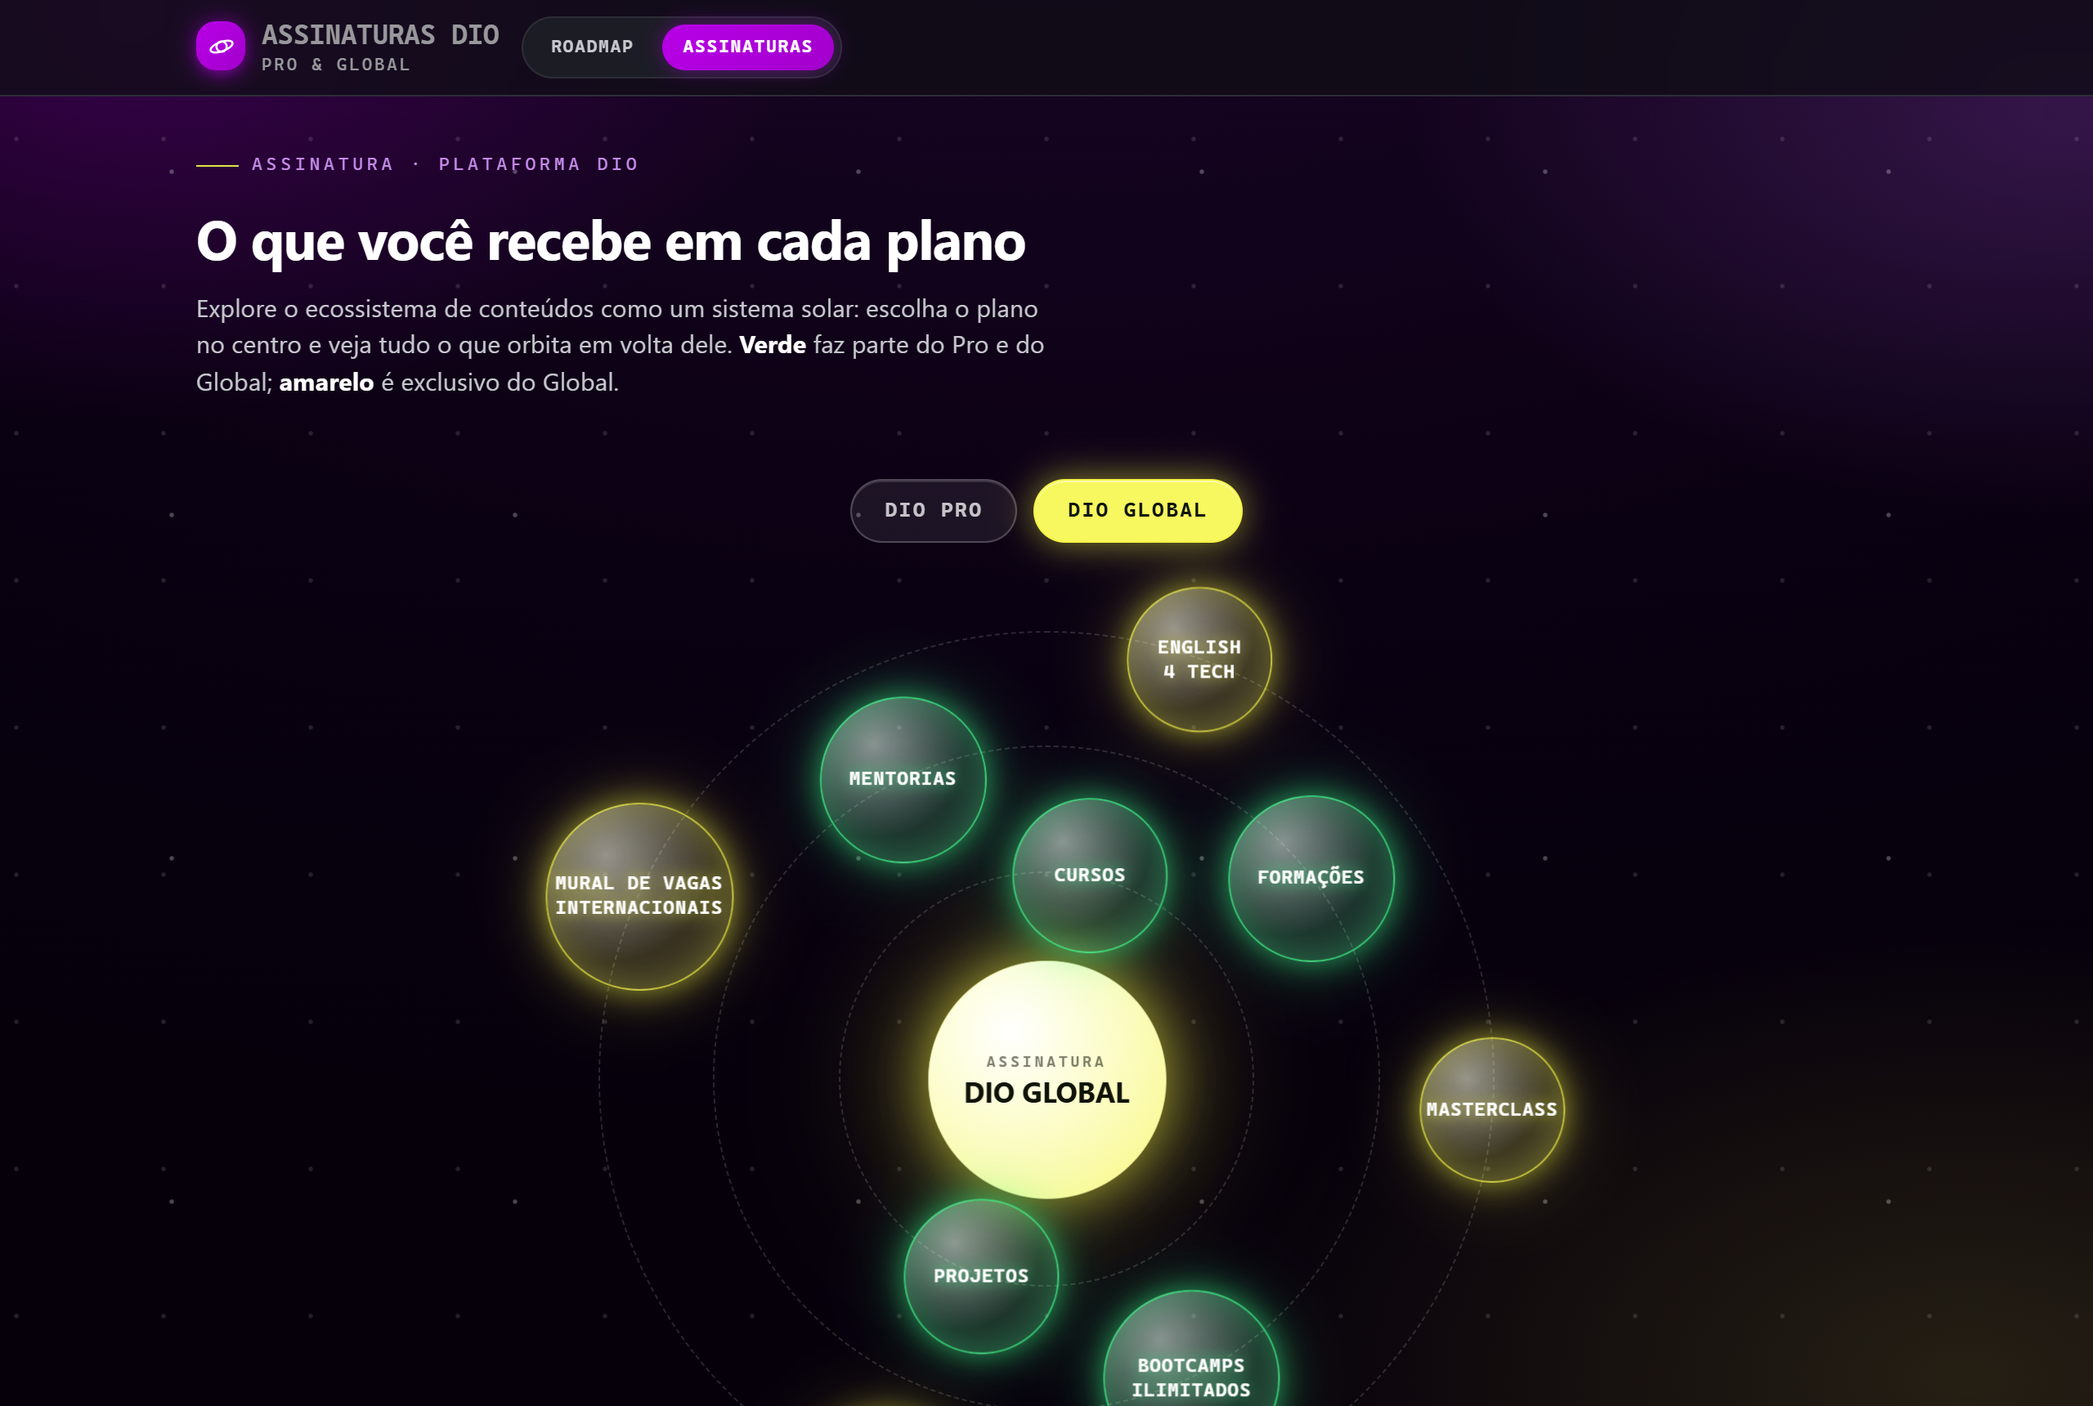
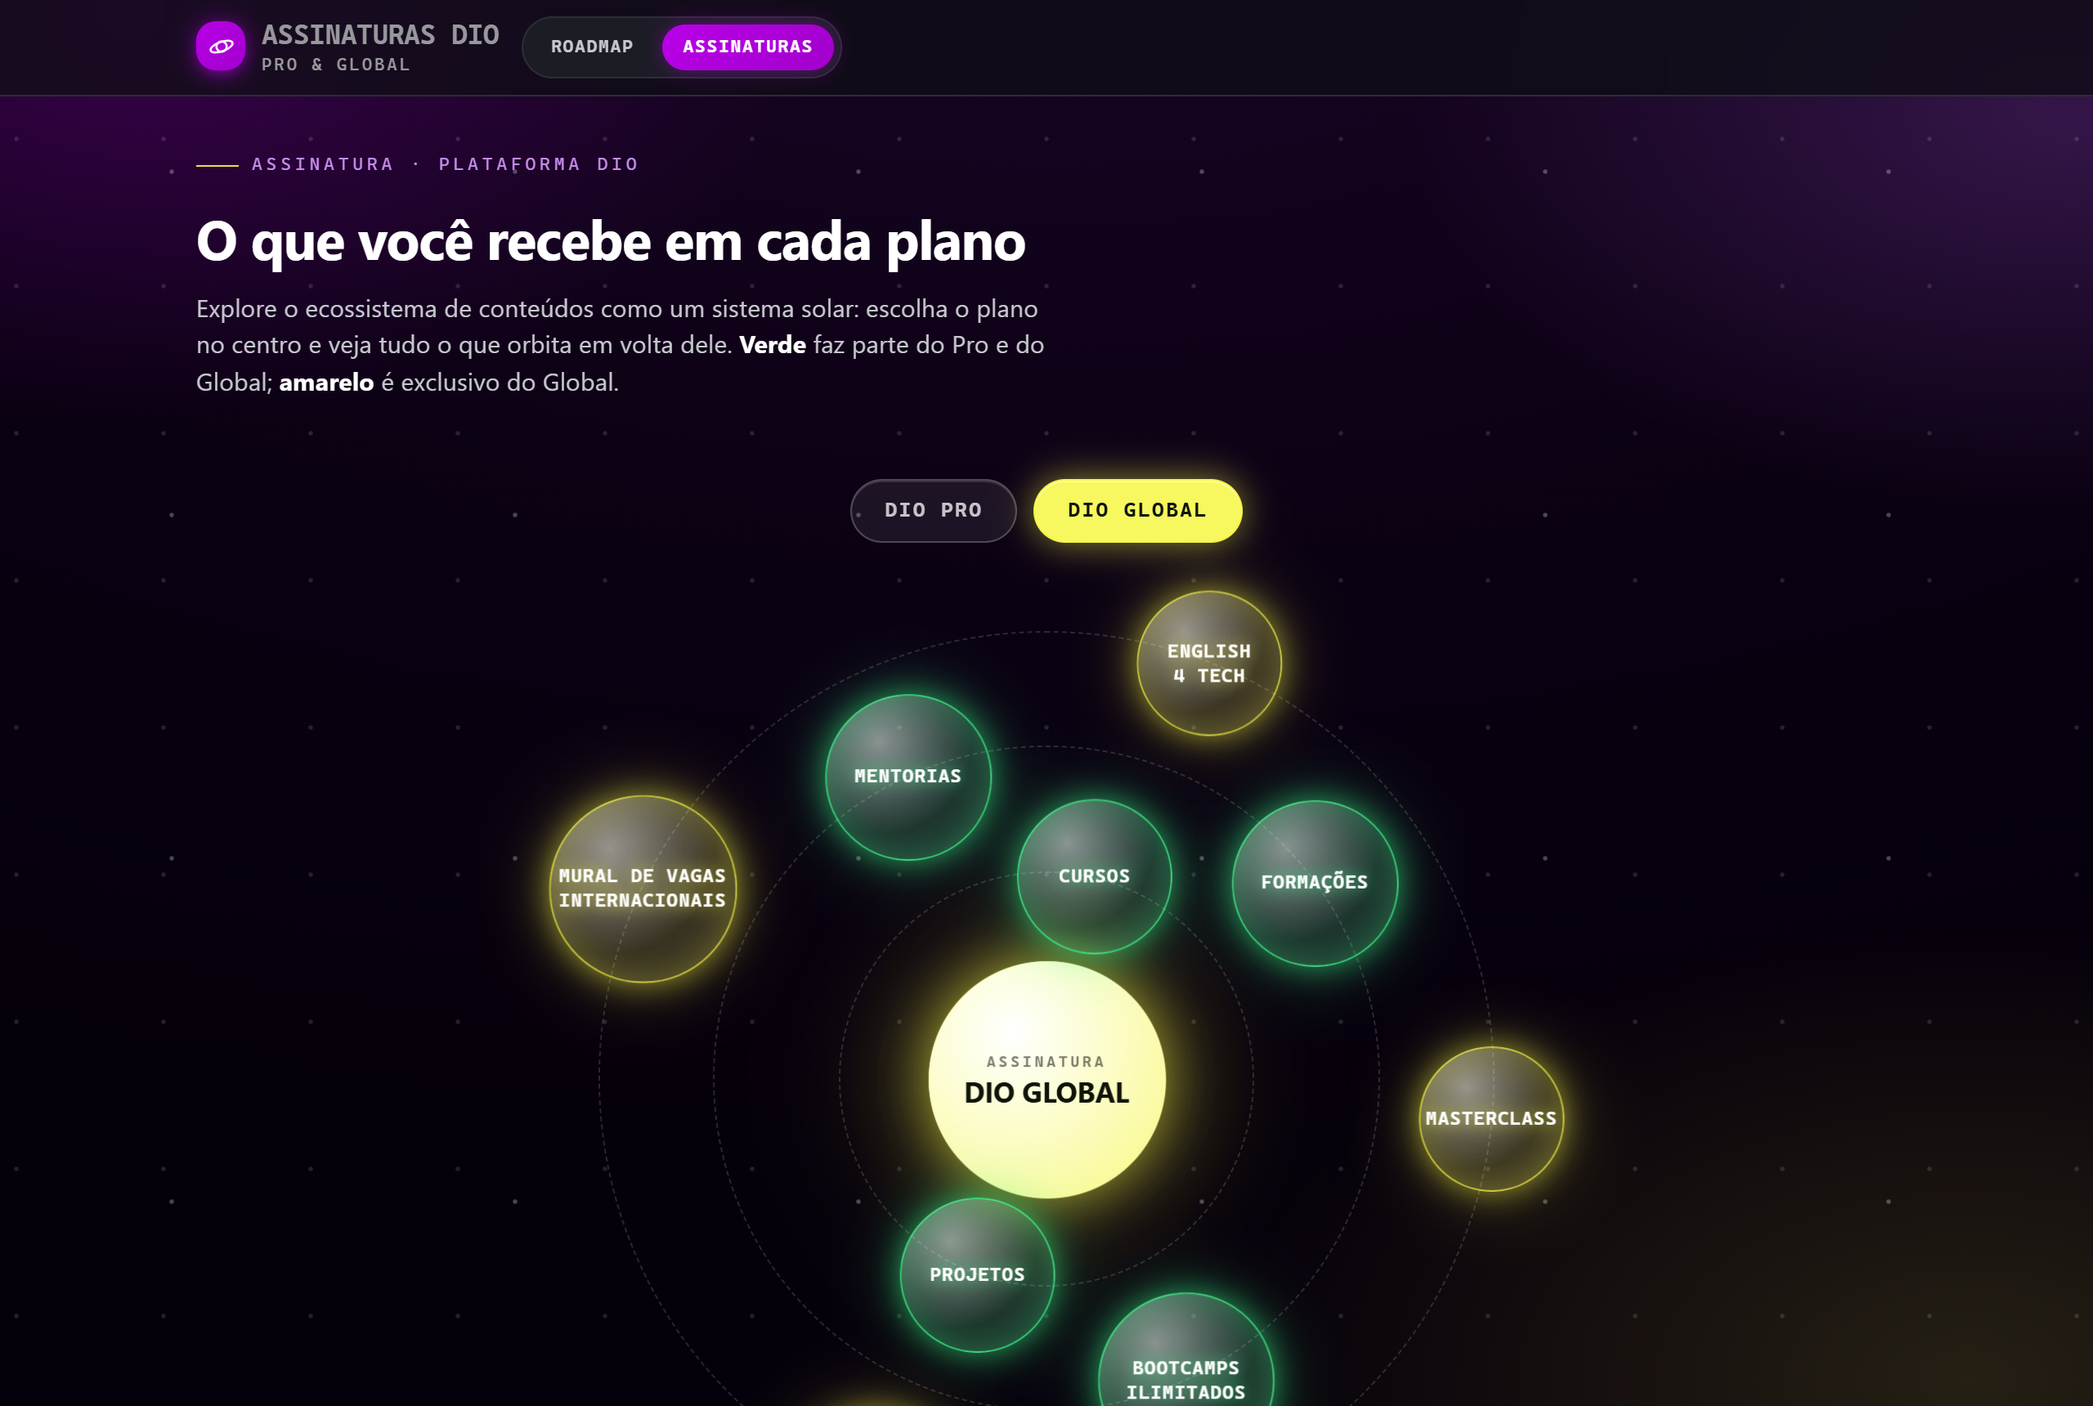
Hero: visual One UI escuro + mapa 2D visto de cima + estrelas
- Hero volta ao roxo escuro do projeto (One UI: superfície suave, cantos generosos)
- Mapa dinâmico agora é 2D visto de cima (world map SMW): caminhos ortogonais
  em zigue-zague sobre ilhas sutis; fases alternam magenta/dourado
- Herói e castelo em traço branco com bandeiras douradas
- Partículas: estrelas cintilantes (branco/lavanda/dourado) no lugar das bolhas
- Atualiza prints do README

Claude-Session: https://claude.ai/code/session_01NDBp3KGpNdm6GVd3E32CQM

diff --git a/index.html b/index.html
@@ -77,21 +77,16 @@
   .icon-btn{padding:7px;width:36px;justify-content:center}
 
   /* ---------- hero ---------- */
-  /* hero Frutiger Aero: céu aqua glossy, escuro no canto do texto p/ legibilidade */
+  /* hero One UI: superfície escura, cantos generosos, brilho suave (paleta do projeto) */
   .hero{position:relative;width:100%;margin:0;padding:64px 0 58px;border-radius:0 0 34px 34px;overflow:hidden;
-    background:
-      radial-gradient(90% 120% at 8% 100%, rgba(4,48,68,.55), transparent 60%),
-      linear-gradient(115deg,#075E86 0%,#1290C4 32%,#31B0E8 60%,#83DBF9 100%);
-    color:#fff;
-    box-shadow:0 30px 70px -38px rgba(7,64,96,.9), inset 0 -1px 0 rgba(255,255,255,.35)}
+    background:linear-gradient(155deg,#0C0118 0%,#23002F 55%,#320043 100%);color:#fff;
+    box-shadow:0 30px 70px -38px rgba(48,0,64,.9)}
   .hero-in{position:relative;z-index:2;max-width:1080px;margin:0 auto;padding:0 24px}
   .hero-in>*{position:relative}
-  .hero::before{content:"";position:absolute;right:-110px;top:-140px;width:460px;height:460px;border-radius:50%;
-    background:radial-gradient(circle,rgba(255,255,255,.55),transparent 60%);pointer-events:none;z-index:1}
-  .hero::after{content:"";position:absolute;inset:0;z-index:1;pointer-events:none;
-    background:linear-gradient(115deg,transparent 30%,rgba(255,255,255,.20) 42%,rgba(255,255,255,.04) 52%,transparent 60%)}
+  .hero::before{content:"";position:absolute;right:-130px;top:-150px;width:460px;height:460px;border-radius:50%;
+    background:radial-gradient(circle,rgba(184,0,231,.5),transparent 62%);pointer-events:none;z-index:1}
   .hero-bubbles{position:absolute;inset:0;width:100%;height:100%;z-index:0;pointer-events:none}
-  .hero-deco{position:absolute;right:8px;top:22px;bottom:auto;width:min(620px,50%);height:auto;opacity:.95;pointer-events:none;color:rgba(7,58,84,.55);z-index:1}
+  .hero-deco{position:absolute;right:8px;top:22px;bottom:auto;width:min(620px,50%);height:auto;opacity:.9;pointer-events:none;color:rgba(255,255,255,.42);z-index:1}
   @media (max-width:820px){.hero-deco{display:none}}
   .eyebrow{font-family:var(--mono);font-size:.72rem;letter-spacing:.2em;text-transform:uppercase;
     color:var(--gold);display:flex;align-items:center;gap:8px;margin-bottom:16px}
@@ -516,22 +511,9 @@
   }
 
   /* ============================================================
-     AERO HERO — overrides Frutiger Aero (só no hero) + mapa vivo
+     MAPA VIVO — animação do roadmap dinâmico do hero
      ============================================================ */
-  .hero h1{text-shadow:0 1px 0 rgba(255,255,255,.28),0 2px 14px rgba(3,48,66,.6),0 0 34px rgba(0,229,255,.35)}
-  .hero h1 .u{background:linear-gradient(100deg,#FFFFFF,#BDF0FF 55%,#E9FBFF);-webkit-background-clip:text;background-clip:text;
-    color:transparent;filter:drop-shadow(0 2px 6px rgba(4,60,84,.65))}
-  .hero .eyebrow{color:#EAFBFF;text-shadow:0 0 14px rgba(255,255,255,.65)}
-  .hero .eyebrow::before{background:#EAFBFF}
-  .hero .lede{color:rgba(255,255,255,.95);text-shadow:0 1px 8px rgba(6,58,84,.5)}
-  .hero .step-chip{color:#053A50;font-weight:600;border:1px solid rgba(255,255,255,.6);
-    background:linear-gradient(180deg,rgba(255,255,255,.45),rgba(255,255,255,.16) 48%,rgba(255,255,255,.3));
-    -webkit-backdrop-filter:blur(6px);backdrop-filter:blur(6px);
-    box-shadow:inset 0 1px 0 rgba(255,255,255,.8),inset 0 -6px 12px -8px rgba(6,90,120,.35),0 8px 18px -12px rgba(4,60,90,.55)}
-  .hero .step-chip .n{background:linear-gradient(180deg,#8FE9FF,#18A5DE);color:#04384E;
-    box-shadow:inset 0 1px 0 rgba(255,255,255,.85),0 0 12px rgba(120,220,255,.7)}
-
-  /* mapa vivo: nós/pontinhos aparecem com pop suave */
+  /* nós/pontinhos aparecem com pop suave */
   .mnode,.mdot{opacity:0;transform:scale(.2);transform-box:fill-box;transform-origin:center;
     transition:transform .38s cubic-bezier(.34,1.56,.64,1),opacity .22s ease}
   .mdot{transition-duration:.3s,.18s}
@@ -577,22 +559,21 @@
     <canvas class="hero-bubbles" id="heroBubbles" aria-hidden="true"></canvas>
     <svg class="hero-deco" viewBox="0 0 640 300" fill="none" aria-hidden="true">
       <defs>
-        <radialGradient id="orbG" cx=".35" cy=".3" r=".8">
-          <stop offset="0" stop-color="#fff"/><stop offset=".55" stop-color="#CFF3FF"/><stop offset="1" stop-color="#45B7E8"/>
-        </radialGradient>
-        <linearGradient id="hillG" x1="0" y1="0" x2="0" y2="1">
-          <stop offset="0" stop-color="#B7EC7A"/><stop offset="1" stop-color="#3E9E45"/>
-        </linearGradient>
-        <!-- castelo com origem no fim da trilha (deslocado de 560,106) -->
-        <g id="castleTpl" stroke="#0A4B66" stroke-width="2.6" stroke-linejoin="round" stroke-linecap="round">
-          <path d="M-8 0 V-34 h7 v-7 h7 v7 h7 v-7 h7 v7 h7 v-7 h7 v7 h7 V0 Z" fill="rgba(255,255,255,.6)"/>
-          <path d="M14 0 V-14 a7 7 0 0 1 14 0 v14" fill="rgba(255,255,255,.75)"/>
-          <path d="M16 -41 v-18 h15 l-4.5 5 4.5 5 h-15" fill="#FFD34D" stroke="none"/>
+        <!-- castelo com origem no fim da trilha -->
+        <g id="castleTpl" stroke="rgba(255,255,255,.85)" stroke-width="2.6" stroke-linejoin="round" stroke-linecap="round">
+          <path d="M-8 0 V-34 h7 v-7 h7 v7 h7 v-7 h7 v7 h7 v-7 h7 v7 h7 V0 Z" fill="rgba(255,255,255,.07)"/>
+          <path d="M14 0 V-14 a7 7 0 0 1 14 0 v14" fill="rgba(255,255,255,.12)"/>
+          <path d="M16 -41 v-18 h15 l-4.5 5 4.5 5 h-15" fill="#E5E145" stroke="none"/>
         </g>
       </defs>
-      <g id="mapTerrain">
-        <path d="M0 300 V232 C 70 212 130 234 196 224 C 268 213 322 240 396 228 C 462 217 520 238 582 228 C 606 224 624 230 640 226 V300 Z" fill="#fff" opacity=".18"/>
-        <path d="M0 300 V260 C 84 248 156 268 236 256 C 322 243 402 270 484 258 C 554 248 602 264 640 256 V300 Z" fill="url(#hillG)" opacity=".5"/>
+      <!-- ilhas vistas de cima (world map 2D) -->
+      <g id="mapTerrain" stroke-width="2">
+        <path d="M35 205 C 20 160 70 118 150 122 C 215 125 240 95 320 92 C 395 89 420 130 400 168 C 385 197 320 200 275 218 C 220 240 260 268 200 278 C 130 288 55 255 35 205 Z"
+          fill="rgba(255,255,255,.045)" stroke="rgba(255,255,255,.10)"/>
+        <path d="M430 210 C 425 178 470 160 520 168 C 570 176 600 200 590 232 C 580 262 520 272 478 258 C 445 247 434 233 430 210 Z"
+          fill="rgba(255,255,255,.045)" stroke="rgba(255,255,255,.10)"/>
+        <path d="M470 58 C 468 40 495 30 535 34 C 575 38 600 52 595 74 C 590 95 545 102 510 94 C 484 88 472 76 470 58 Z"
+          fill="rgba(255,255,255,.045)" stroke="rgba(255,255,255,.10)"/>
       </g>
       <g id="mapTrail"></g>
     </svg>
@@ -1241,23 +1222,40 @@ backLink.addEventListener('click',function(){
   function stopMap(){ timers.forEach(clearTimeout); timers=[]; }
 
   function clamp(v,a,b){ return v<a?a:(v>b?b:v); }
+  /* meandro ortogonal 2D (visto de cima, estilo world map do SMW):
+     alterna movimentos horizontais/verticais rumo ao destino, com desvios */
   function genWaypoints(){
-    var N=3+Math.floor(Math.random()*3);
-    var sx=60,sy=255,ex=545+Math.random()*25,ey=98+Math.random()*14;
-    var pts=[{x:sx,y:sy}],i;
-    for(i=1;i<=N;i++){
-      var t=i/(N+1);
-      var x=sx+t*(ex-sx)+(Math.random()*44-22);
-      var base=sy+t*(ey-sy);
-      var dir=(i%2?-1:1);
-      pts.push({x:x,y:clamp(base+dir*(18+Math.random()*20),70,265)});
+    var sx=55+Math.random()*25, sy=225+Math.random()*35;
+    var ex=540+Math.random()*35, ey=62+Math.random()*30;
+    var pts=[{x:sx,y:sy}], x=sx, y=sy, horiz=true, guard=0;
+    while(guard++<10){
+      var remX=ex-x, remY=ey-y;
+      if(Math.abs(remX)<150&&Math.abs(remY)<130) break;
+      if(horiz){
+        var st=remX*(.32+Math.random()*.34);
+        if(Math.abs(st)<60) st=60*(remX<0?-1:1);
+        x=clamp(x+st,40,600);
+      } else {
+        var sv=remY*(.38+Math.random()*.38);
+        if(Math.abs(sv)<45) sv=45*(remY<0?-1:1);
+        if(Math.random()<.3) sv=-sv*.7; /* desvio contrário ocasional (zigue-zague vivo) */
+        y=clamp(y+sv,55,270);
+      }
+      pts.push({x:x,y:y});
+      horiz=!horiz;
     }
+    if(Math.abs(ex-x)>2) pts.push({x:ex,y:y});
     pts.push({x:ex,y:ey});
-    for(i=1;i<pts.length;i++) if(pts[i].x-pts[i-1].x<48) pts[i].x=pts[i-1].x+48;
-    return pts;
+    /* remove nós duplicados/segmentos nulos */
+    var out=[pts[0]];
+    for(var i=1;i<pts.length;i++){
+      var p=pts[i],q=out[out.length-1];
+      if(Math.abs(p.x-q.x)>2||Math.abs(p.y-q.y)>2) out.push(p);
+    }
+    return out;
   }
-  function segD(a,b){ var mx=(a.x+b.x)/2;
-    return 'M'+a.x+' '+a.y+' C '+mx+' '+a.y+', '+mx+' '+b.y+', '+b.x+' '+b.y; }
+  /* segmentos retos (mapa 2D visto de cima) */
+  function segD(a,b){ return 'M'+a.x+' '+a.y+' L '+b.x+' '+b.y; }
   function el(name,attrs,cls){
     var e=document.createElementNS(SVGNS,name);
     for(var k in attrs) e.setAttribute(k,attrs[k]);
@@ -1277,35 +1275,39 @@ backLink.addEventListener('click',function(){
     /* herói no início — posição no grupo externo (atributo), pop no interno
        (a classe .mnode usa transform via CSS, que sobrepõe o atributo transform) */
     var heroPos=el('g',{transform:'translate('+pts[0].x+' '+pts[0].y+')'});
-    var hero=el('g',{stroke:'#06465F','stroke-width':'2.4','stroke-linecap':'round','stroke-linejoin':'round',fill:'none'},'mnode');
-    hero.appendChild(el('circle',{cx:0,cy:-14,r:16,fill:'rgba(255,255,255,.4)',stroke:'none'}));
-    hero.appendChild(el('circle',{cx:0,cy:-24,r:5.5,fill:'rgba(255,255,255,.85)'}));
+    var hero=el('g',{stroke:'#fff','stroke-width':'2.4','stroke-linecap':'round','stroke-linejoin':'round',fill:'none'},'mnode');
+    hero.appendChild(el('circle',{cx:0,cy:-14,r:16,fill:'rgba(255,255,255,.1)',stroke:'none'}));
+    hero.appendChild(el('circle',{cx:0,cy:-24,r:5.5,fill:'rgba(255,255,255,.92)'}));
     hero.appendChild(el('path',{d:'M0 -18 v11 M0 -7 l-6 9 M0 -7 l6 9 M-7 -13 h14'}));
-    hero.appendChild(el('path',{d:'M7 -13 v-14 h9 l-3 3.5 3 3.5 h-9',fill:'#FFD34D',stroke:'none'}));
+    hero.appendChild(el('path',{d:'M7 -13 v-14 h9 l-3 3.5 3 3.5 h-9',fill:'#E5E145',stroke:'none'}));
     heroPos.appendChild(hero); layer.appendChild(heroPos); built.hero=hero;
 
     var i,j;
     for(i=0;i<pts.length-1;i++){
       var dots=sampleDots(segD(pts[i],pts[i+1])),dotEls=[];
       for(j=0;j<dots.length;j++){
-        var dot=el('circle',{cx:dots[j].x,cy:dots[j].y,r:2.2,fill:'rgba(7,58,84,.65)'},'mdot');
+        var dot=el('circle',{cx:dots[j].x,cy:dots[j].y,r:2.1,fill:'rgba(255,255,255,.55)'},'mdot');
         layer.appendChild(dot); dotEls.push(dot);
       }
       built.segDots.push(dotEls);
       if(i<pts.length-2){
+        /* fases alternando magenta/dourado, como o mapa original */
+        var mag=(built.orbs.length%2===0);
         var orb=el('g',{},'mnode');
-        orb.appendChild(el('circle',{cx:pts[i+1].x,cy:pts[i+1].y,r:11,fill:'url(#orbG)',stroke:'rgba(255,255,255,.85)','stroke-width':'1.4'}));
-        orb.appendChild(el('circle',{cx:pts[i+1].x-3.4,cy:pts[i+1].y-3.8,r:3.2,fill:'#fff',opacity:'.9'}));
+        orb.appendChild(el('circle',{cx:pts[i+1].x,cy:pts[i+1].y,r:10.5,fill:mag?'#B800E7':'#E5E145',
+          stroke:'rgba(255,255,255,.35)','stroke-width':'1.6'}));
+        orb.appendChild(el('circle',{cx:pts[i+1].x,cy:pts[i+1].y,r:4,
+          fill:mag?'#fff':'#1A0322',opacity:mag?'.85':'.55'}));
         layer.appendChild(orb); built.orbs.push(orb);
       }
     }
-    /* moedas: 2-3 acima de pontos aleatórios do meio */
+    /* moedas: 2-3 perto de pontos aleatórios do meio */
     var coinN=2+Math.floor(Math.random()*2);
     for(i=0;i<coinN;i++){
       var wp=pts[1+Math.floor(Math.random()*(pts.length-2))];
       var cx=wp.x+(Math.random()*46-23),cy=wp.y-(24+Math.random()*20);
       var coin=el('g',{},'mnode');
-      coin.appendChild(el('circle',{cx:cx,cy:cy,r:3.6,fill:'#FFD34D'}));
+      coin.appendChild(el('circle',{cx:cx,cy:cy,r:3.6,fill:'#E5E145'}));
       coin.appendChild(el('circle',{cx:cx-1.1,cy:cy-1.2,r:1,fill:'#fff',opacity:'.85'}));
       layer.appendChild(coin); built.coins.push(coin);
     }
@@ -1318,7 +1320,7 @@ backLink.addEventListener('click',function(){
     castlePos.appendChild(castle); layer.appendChild(castlePos); built.castle=castle;
     for(i=0;i<6;i++){
       var ang=Math.PI*2*i/6, dist=26+Math.random()*14;
-      var sp=el('circle',{cx:end.x,cy:end.y-22,r:2.6,fill:'#FFD34D'},'spark');
+      var sp=el('circle',{cx:end.x,cy:end.y-22,r:2.6,fill:'#E5E145'},'spark');
       sp.style.setProperty('--dx',Math.cos(ang)*dist+'px');
       sp.style.setProperty('--dy',(Math.sin(ang)*dist-8)+'px');
       layer.appendChild(sp); built.sparks.push(sp);
@@ -1377,51 +1379,52 @@ backLink.addEventListener('click',function(){
   start();
 })();
 
-/* ---------- hero: bolhas Frutiger Aero (canvas) ---------- */
+/* ---------- hero: estrelas cintilantes (canvas) ---------- */
 (function(){
   var canvas=document.getElementById('heroBubbles');
   var hero=document.querySelector('.hero');
   if(!canvas||!hero) return;
   if(window.matchMedia&&window.matchMedia('(prefers-reduced-motion:reduce)').matches) return;
   var ctx=canvas.getContext('2d');
-  var sprite=(function(){
-    var s=64,c=document.createElement('canvas');c.width=c.height=s;
-    var x=c.getContext('2d'),cx=32,cy=32,r=29;
-    var g=x.createRadialGradient(cx-10,cy-13,3,cx,cy,r);
-    g.addColorStop(0,'rgba(255,255,255,.5)');g.addColorStop(.5,'rgba(255,255,255,.06)');
-    g.addColorStop(.92,'rgba(255,255,255,.12)');g.addColorStop(1,'rgba(255,255,255,.5)');
-    x.fillStyle=g;x.beginPath();x.arc(cx,cy,r,0,7);x.fill();
-    x.strokeStyle='rgba(255,255,255,.75)';x.lineWidth=1.5;x.stroke();
-    x.fillStyle='rgba(255,255,255,.9)';
-    x.beginPath();x.ellipse(cx-12,cy-14,6,3.6,-.6,0,7);x.fill();
-    return c;
-  })();
-  var W=0,H=0,bubbles=[],raf=0,last=0,resizeT=0;
+  var W=0,H=0,stars=[],raf=0,last=0,resizeT=0;
   function rand(a,b){ return a+Math.random()*(b-a); }
-  function spawn(anyY){
-    return {x:rand(0,W),y:anyY?rand(0,H):H+rand(6,40),r:rand(4,20),
-      v:rand(10,26),amp:rand(4,12),f:rand(.4,1.1),ph:rand(0,6.28),a:rand(.14,.4)};
+  function starColor(){
+    var r=Math.random();
+    return r<.1?'229,225,69':(r<.28?'216,180,255':'255,255,255'); /* dourado / lavanda / branco */
+  }
+  function spawn(){
+    return {x:rand(0,W),y:rand(0,H),r:rand(.5,1.7),a:rand(.2,.75),
+      f:rand(.3,1.4),ph:rand(0,6.28),vx:rand(-2.5,2.5),c:starColor(),big:Math.random()<.12};
   }
   function size(){
     W=hero.clientWidth;H=hero.clientHeight;
     var dpr=Math.min(window.devicePixelRatio||1,2);
     canvas.width=W*dpr;canvas.height=H*dpr;
     ctx.setTransform(dpr,0,0,dpr,0,0);
-    var n=Math.min(26,Math.max(8,Math.round(W/48)));
-    bubbles=[];for(var i=0;i<n;i++) bubbles.push(spawn(true));
+    var n=Math.min(70,Math.max(24,Math.round(W/18)));
+    stars=[];for(var i=0;i<n;i++) stars.push(spawn());
   }
   function frame(now){
     var dt=Math.min(.05,(now-last)/1000)||.016;last=now;
     ctx.clearRect(0,0,W,H);
-    for(var i=0;i<bubbles.length;i++){
-      var b=bubbles[i];
-      b.y-=b.v*dt;
-      if(b.y<-2*b.r) bubbles[i]=b=spawn(false);
-      var x=b.x+Math.sin(now/1000*b.f+b.ph)*b.amp;
-      ctx.globalAlpha=b.a;
-      ctx.drawImage(sprite,x-b.r,b.y-b.r,b.r*2,b.r*2);
+    for(var i=0;i<stars.length;i++){
+      var s=stars[i];
+      s.x+=s.vx*dt;
+      if(s.x<-4) s.x=W+4; else if(s.x>W+4) s.x=-4;
+      var tw=.3+.7*(Math.sin(now/1000*s.f+s.ph)+1)/2; /* cintilar */
+      var a=s.a*tw;
+      ctx.fillStyle='rgba('+s.c+','+a.toFixed(3)+')';
+      ctx.beginPath();ctx.arc(s.x,s.y,s.r,0,7);ctx.fill();
+      if(s.big){ /* estrelas maiores ganham raios em cruz */
+        ctx.strokeStyle='rgba('+s.c+','+(a*.55).toFixed(3)+')';
+        ctx.lineWidth=.8;
+        var L=s.r*3.2;
+        ctx.beginPath();
+        ctx.moveTo(s.x-L,s.y);ctx.lineTo(s.x+L,s.y);
+        ctx.moveTo(s.x,s.y-L);ctx.lineTo(s.x,s.y+L);
+        ctx.stroke();
+      }
     }
-    ctx.globalAlpha=1;
     raf=requestAnimationFrame(frame);
   }
   function play(){ if(!raf){ last=performance.now(); raf=requestAnimationFrame(frame); } }
